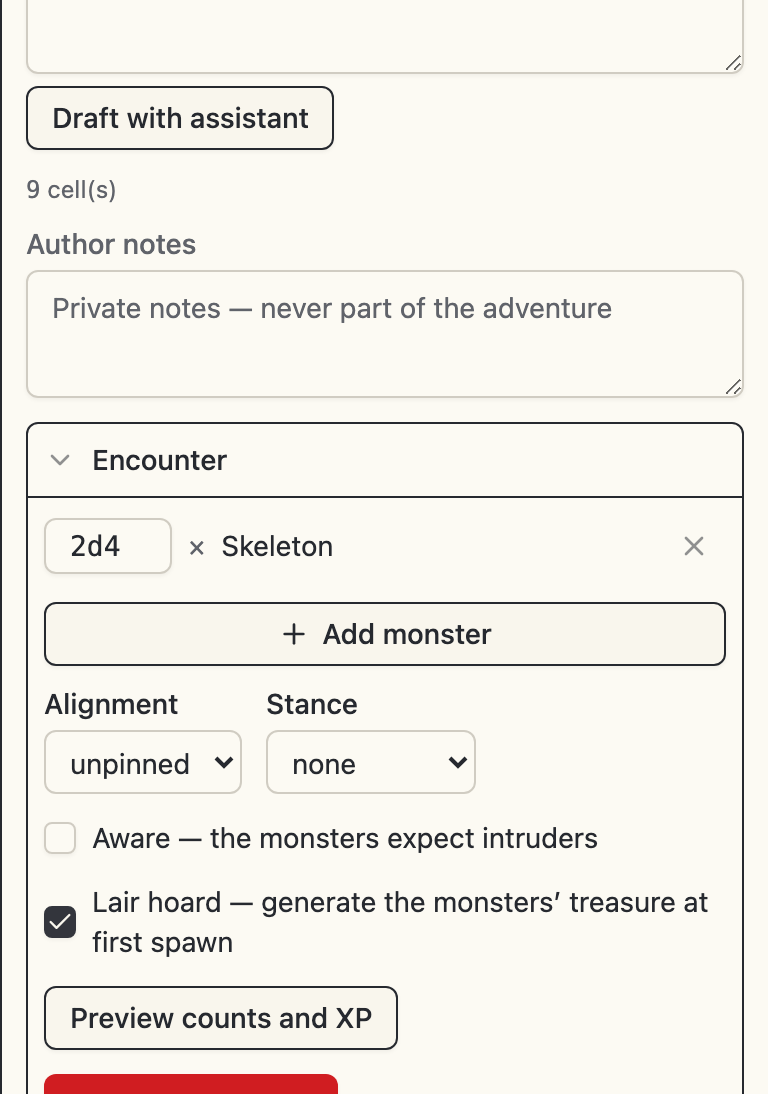
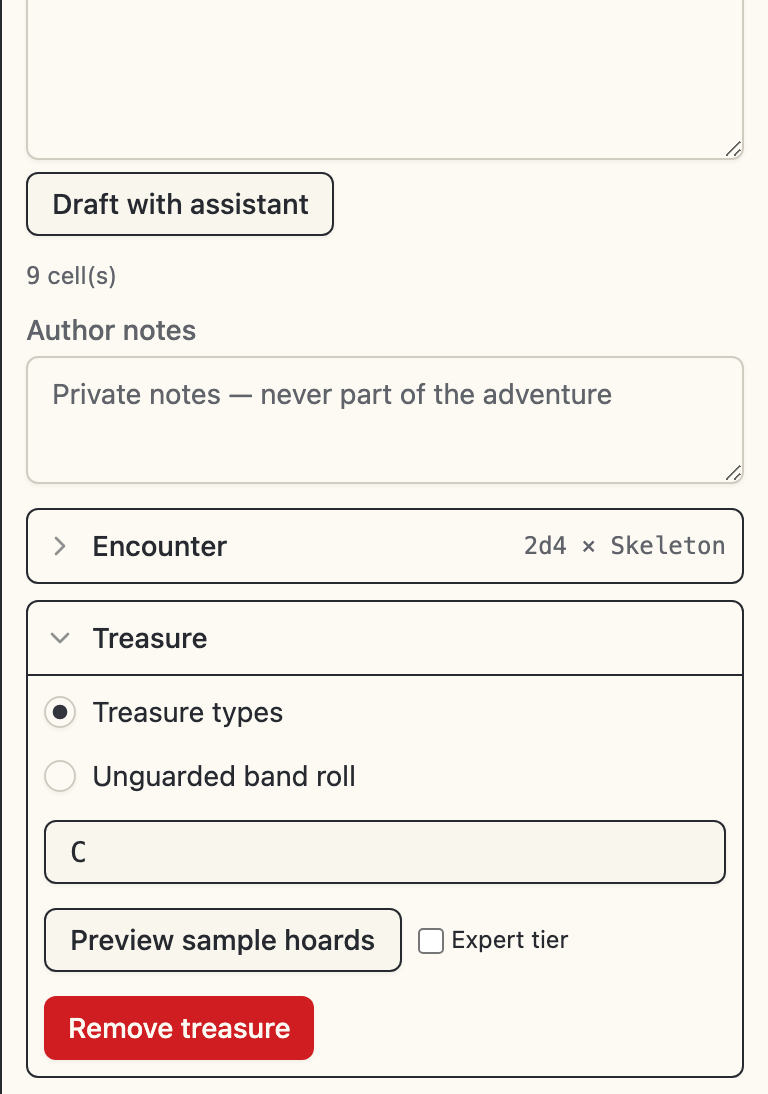
address second-round findings on the shot framing
- area-content-cards promised "encounter and treasure cards" while the treasure
  card sat below the fold. Playwright's toBeVisible() does not catch this — it
  only requires a non-empty box, not presence in the scroll viewport — so the
  shot now collapses the encounter card to its module-notation summary and
  asserts both cards are genuinely inside the captured frame.
- pipeline-stages clipped to the tbody, leaving two unlabelled columns. It now
  clips to the table, so the header names them; the provider strip is outside
  the table wrapper either way.
- globalSetup is declared only when capturing. The early return already made it
  inert on the release path, but an unconditional declaration still put the
  capture modules on that gate's load path.

Zooming the hero was tried and reverted: zoomAt scales about the viewport
centre rather than the geometry, so it pushed the module off-frame. The comment
records that, since the empty grid otherwise looks like an oversight.

Claude-Session: https://claude.ai/code/session_01EWsMbZJktEqLrzdrB9XT4e

diff --git a/tests/screenshots/native.spec.ts b/tests/screenshots/native.spec.ts
@@ -119,11 +119,24 @@ test('the project chrome, the map editor, and the stocking surfaces', async ({ p
   await expect(
     inspector.getByTestId('card-treasure').getByRole('button', { name: 'C', exact: true }),
   ).toBeVisible()
-  // Scroll back to the top: committing the cards leaves the inspector at its
-  // bottom, which would put the encounter's monster line — the thing the caption
-  // is about — above the frame.
-  await inspector.getByLabel('Monster lines').scrollIntoViewIfNeeded()
-  await expect(inspector.getByLabel('Monster lines')).toContainText('Skeleton')
+  // Collapse the encounter card to its module-notation summary so both cards fit
+  // the inspector's height. Expanded, it alone fills the frame and the treasure
+  // card sits below the fold — which `toBeVisible()` does not catch, since it only
+  // requires a non-empty box, not presence in the scroll viewport.
+  const encounterCard = inspector.getByTestId('card-encounter')
+  await encounterCard.getByRole('button', { expanded: true }).first().click()
+  await encounterCard.scrollIntoViewIfNeeded()
+  await expect(encounterCard).toContainText('Skeleton')
+
+  // Assert both cards are genuinely in frame, which is the check that would have
+  // caught the first version of this shot.
+  const frame = await inspector.boundingBox()
+  for (const card of [encounterCard, inspector.getByTestId('card-treasure')]) {
+    const box = await card.boundingBox()
+    if (!frame || !box || box.y < frame.y || box.y + box.height > frame.y + frame.height) {
+      throw new Error('a content card the caption names is outside the captured frame')
+    }
+  }
   await shoot(inspector, 'area-content-cards', testInfo)
 
   // The map's own reading: a stocked key number beside a hollow one, with the
@@ -169,6 +182,11 @@ test('the project chrome, the map editor, and the stocking surfaces', async ({ p
   // sees could be of a half-dismissed dialog.
   await expect(page.getByRole('dialog')).toBeHidden()
   await expect(page.getByTestId('map-canvas')).toBeVisible()
+  // Deliberately left at reset zoom. Zooming in was tried and is worse: `zoomAt`
+  // scales about the viewport centre, not the geometry, so two steps pushed the
+  // module off the top-left corner and left one room in frame. There is no
+  // fit-to-content control, so the honest framing of a small module on a 30x30
+  // level is the whole level, empty paper included.
   await shoot(page, 'map-editor-hero', testInfo)
 })
 

diff --git a/frontend/playwright.config.ts b/frontend/playwright.config.ts
@@ -56,8 +56,11 @@ const captureUse = {
 
 export default defineConfig({
   forbidOnly: !!process.env.CI,
-  // Resets the produced-shots manifest so it always describes this run alone.
-  globalSetup: '../tests/screenshots/global-setup.ts',
+  // Resets the capture scratch state so a run always describes itself. Declared
+  // only when capturing: an unconditional globalSetup would put the capture
+  // modules on the release gate's load path, where a syntax error in one of them
+  // could fail a tag build that never takes a screenshot.
+  globalSetup: capturing ? '../tests/screenshots/global-setup.ts' : undefined,
   // The capture suite shares one server per port and the backend holds provider
   // configuration and recents process-globally, so the two theme projects must
   // not race each other. The runs also pass --workers=1.

diff --git a/tests/screenshots/conversion.spec.ts b/tests/screenshots/conversion.spec.ts
@@ -70,7 +70,9 @@ test('the pipeline and the printed page', async ({ page, request }, testInfo) =>
   // strip reads "FixtureProvider", a harness no reader can configure.
   await expect(page.getByTestId('stage-row-survey')).toContainText('pending')
   await shoot(
-    page.getByTestId('stage-row-preprocess').locator('xpath=..'),
+    // The table, not its tbody: the header row names the columns, and the
+    // FixtureProvider strip sits outside the table wrapper either way.
+    page.getByTestId('stage-row-preprocess').locator('xpath=../..'),
     'pipeline-stages',
     testInfo,
   )

diff --git a/docs/guides/stocking-and-keyed-content.md b/docs/guides/stocking-and-keyed-content.md
@@ -20,8 +20,8 @@ Key numbers render hollow until an area is stocked (a description or any content
 
 The area panel's cards commit through type-ahead pickers over osrlib's shipped catalogs — monsters (bundled templates first, then this session's recent picks), equipment, and treasure-type letters — so the editor never authors a dangling reference. Foreign documents' danglers stay legal, diagnosed, and navigable.
 
-![The area panel's encounter and treasure cards, committed through type-ahead pickers](../assets/screenshots/area-content-cards-light.png#only-light)
-![The area panel's encounter and treasure cards, committed through type-ahead pickers](../assets/screenshots/area-content-cards-dark.png#only-dark)
+![The area panel's encounter card, collapsed to its module notation, above an expanded treasure card](../assets/screenshots/area-content-cards-light.png#only-light)
+![The area panel's encounter card, collapsed to its module notation, above an expanded treasure card](../assets/screenshots/area-content-cards-dark.png#only-dark)
 
 - **Encounters** name a monster, a count, and the lair-hoard toggle — a monster room's treasure is the encounter's own lair hoard, and the toggle expresses the treasure-absent monster room the SRD rolls.
 - **Treasure** references a treasure type letter or the unguarded band.
